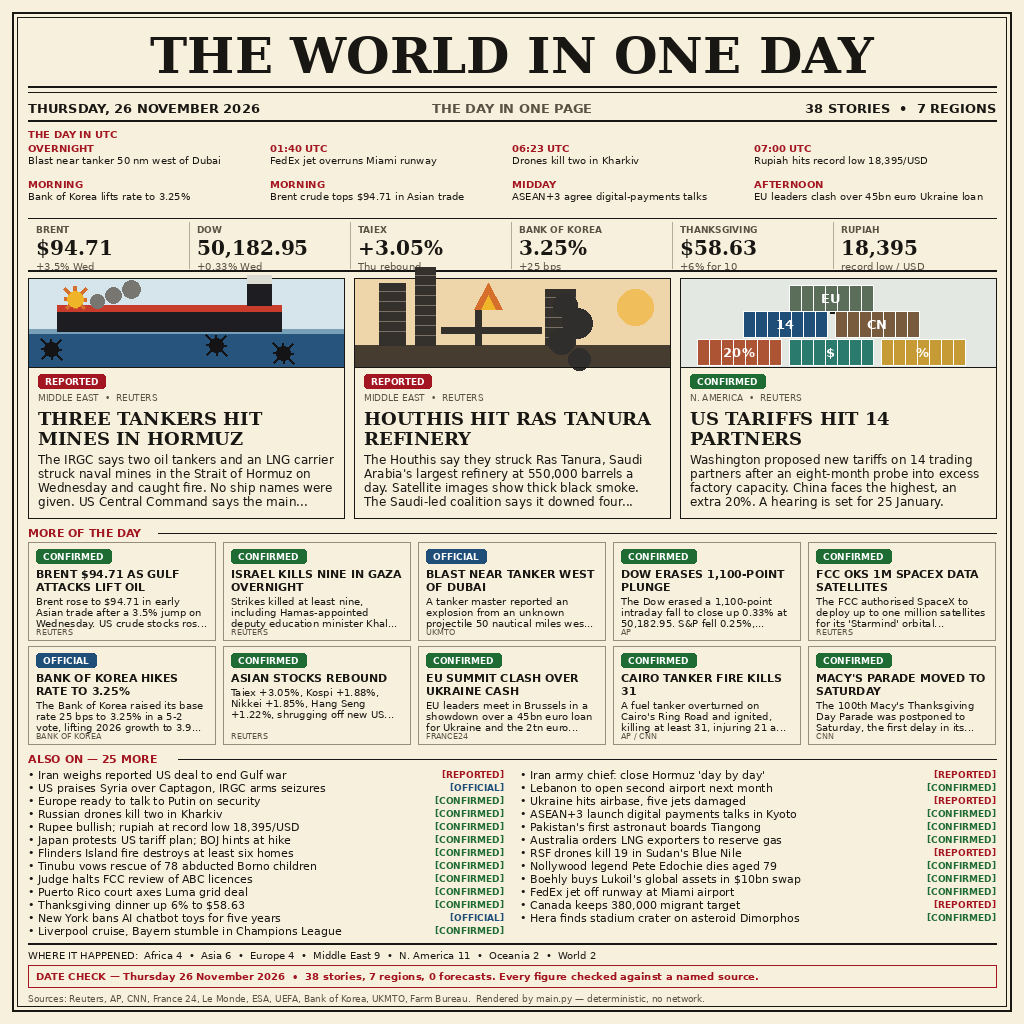
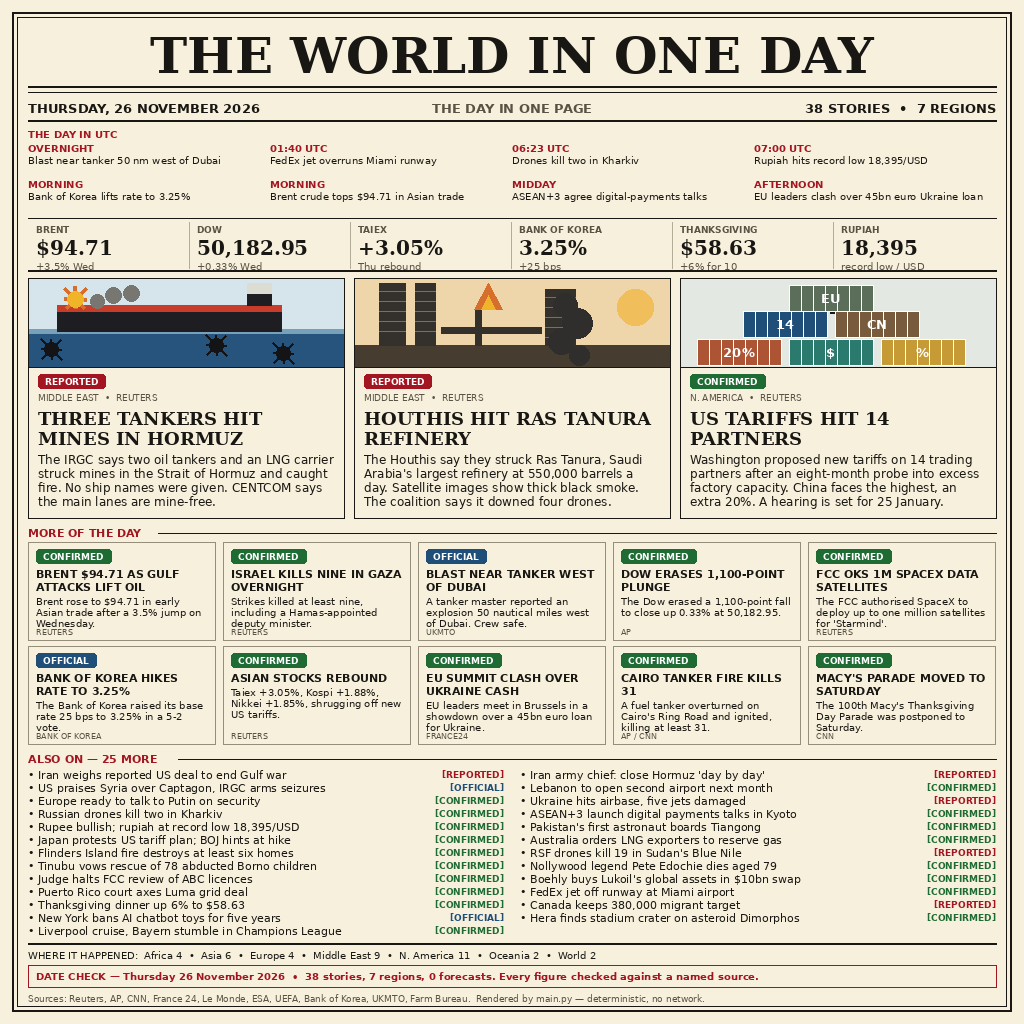
Fix illustration overflow and tidy card text
Replace main.py, stories.json and entry.png: fix illustration padding so the tanker superstructure and refinery tower no longer cross the card top border, and shorten lead and small-card text so every text ends at a full stop inside its box.

diff --git a/main.py b/main.py
@@ -99,10 +99,10 @@ def draw_tanker(draw, x, y, w, h):
     hx, hy, hw, hh = x + 28, y + h - 62, w - 90, 26
     draw.rectangle([hx, hy, hx + hw, hy + hh], fill=(30, 30, 34))
     draw.rectangle([hx, hy, hx + hw, hy + 6], fill=(200, 60, 44))
-    draw.rectangle([hx + hw - 34, hy - 22, hx + hw - 10, hy], fill=(30, 30, 34))
-    draw.rectangle([hx + hw - 34, hy - 30, hx + hw - 10, hy - 22], fill=(220, 220, 210))
+    draw.rectangle([hx + hw - 34, hy - 12, hx + hw - 10, hy], fill=(30, 30, 34))
+    draw.rectangle([hx + hw - 34, hy - 22, hx + hw - 10, hy - 12], fill=(220, 220, 210))
     # funnel smoke (kept inside the illustration box)
-    for cx, cy, r in [(hx + 40, hy - 4, 7), (hx + 56, hy - 10, 8), (hx + 74, hy - 16, 9)]:
+    for cx, cy, r in [(hx + 40, hy - 4, 7), (hx + 56, hy - 10, 8), (hx + 74, hy - 12, 8)]:
         draw.ellipse([cx - r, cy - r, cx + r, cy + r], fill=(120, 118, 112))
     # spiked mines
     for mx, my in [(x + 22, y + h - 18), (x + w - 60, y + h - 14), (x + w // 2 + 30, y + h - 22)]:
@@ -124,7 +124,7 @@ def draw_refinery(draw, x, y, w, h):
     # ground
     draw.rectangle([x, y + h - 22, x + w, y + h], fill=(70, 60, 48))
     # towers
-    for tx, tw, th in [(x + 24, 26, 62), (x + 60, 20, 78), (x + 190, 30, 56)]:
+    for tx, tw, th in [(x + 24, 26, 62), (x + 60, 20, 62), (x + 190, 30, 56)]:
         draw.rectangle([tx, y + h - 22 - th, tx + tw, y + h - 22], fill=(52, 48, 44))
         for ly in range(y + h - 22 - th + 8, y + h - 22 - 4, 10):
             draw.line([tx, ly, tx + tw, ly], fill=(120, 112, 100), width=1)
@@ -139,7 +139,7 @@ def draw_refinery(draw, x, y, w, h):
                  fill=(240, 180, 40))
     # smoke column
     for cx, cy, r in [(x + 210, y + 26, 12), (x + 222, y + 44, 15),
-                      (x + 206, y + 62, 13), (x + 224, y + 80, 11)]:
+                      (x + 206, y + 62, 13), (x + 224, y + 76, 10)]:
         draw.ellipse([cx - r, cy - r, cx + r, cy + r], fill=(48, 46, 44))
 
 
